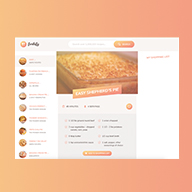
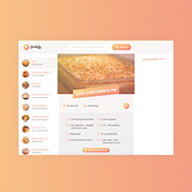
Update thumbnails

diff --git a/src/components/projectCards.js b/src/components/projectCards.js
@@ -1,17 +1,16 @@
-import react from "../static/react.png";
 import pig from "../static/pig.jpg";
 import recipe from "../static/recipe.jpg";
-import blog from "../static/blog.png";
-import hookpractice from "../static/hookpractice.png";
-import language from "../static/language.png";
-import itemDetails from "../static/itemdetails.png";
-import seasons from "../static/seasons.png";
-import streams from "../static/streams.png";
-import bear from "../static/bear.png";
-import resume from "../static/resume.png";
-import pictureSearch from "../static/picturesearch.png";
-import video from "../static/video.png";
-import weight from "../static/weight.png";
+import blog from "../static/blog.jpg";
+import hookpractice from "../static/hookpractice.jpg";
+import language from "../static/language.jpg";
+import itemDetails from "../static/itemdetails.jpg";
+import seasons from "../static/seasons.jpg";
+import streams from "../static/streams.jpg";
+import bear from "../static/bear.jpg";
+import resume from "../static/resume.jpg";
+import pictureSearch from "../static/picturesearch.jpg";
+import video from "../static/video.jpg";
+import weight from "../static/weight.jpg";
 
 const projectCards = [
     {
